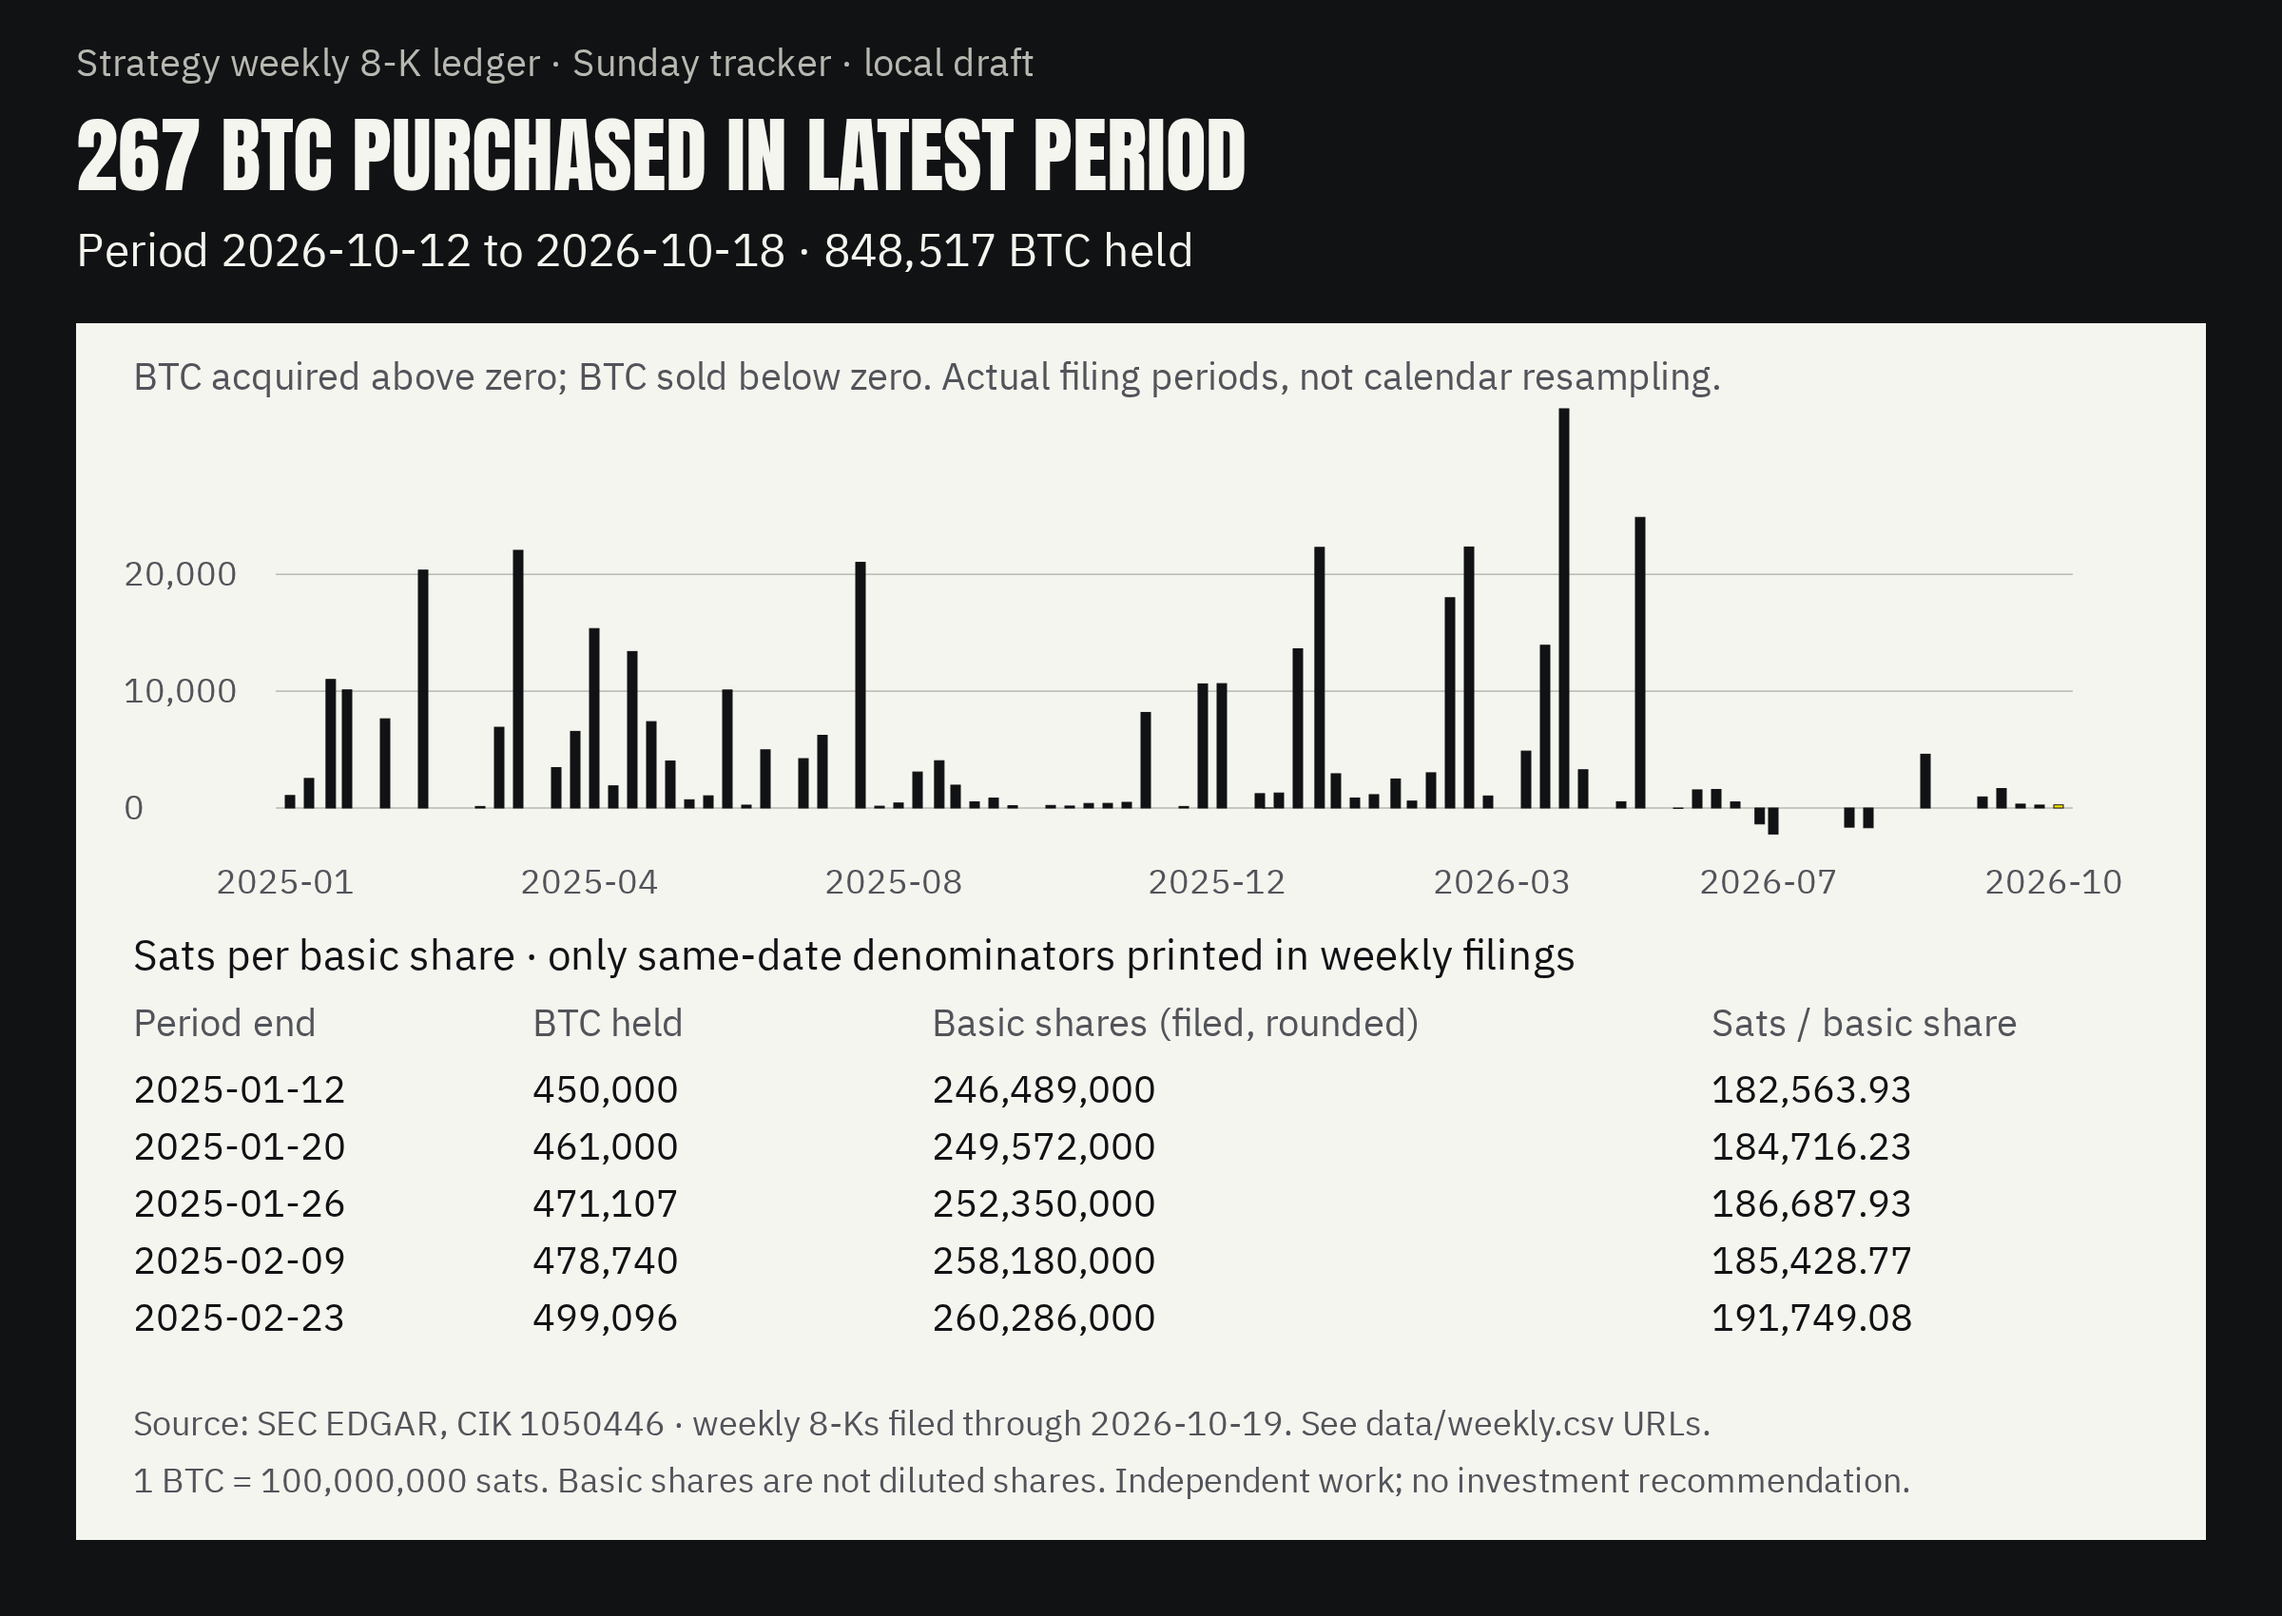
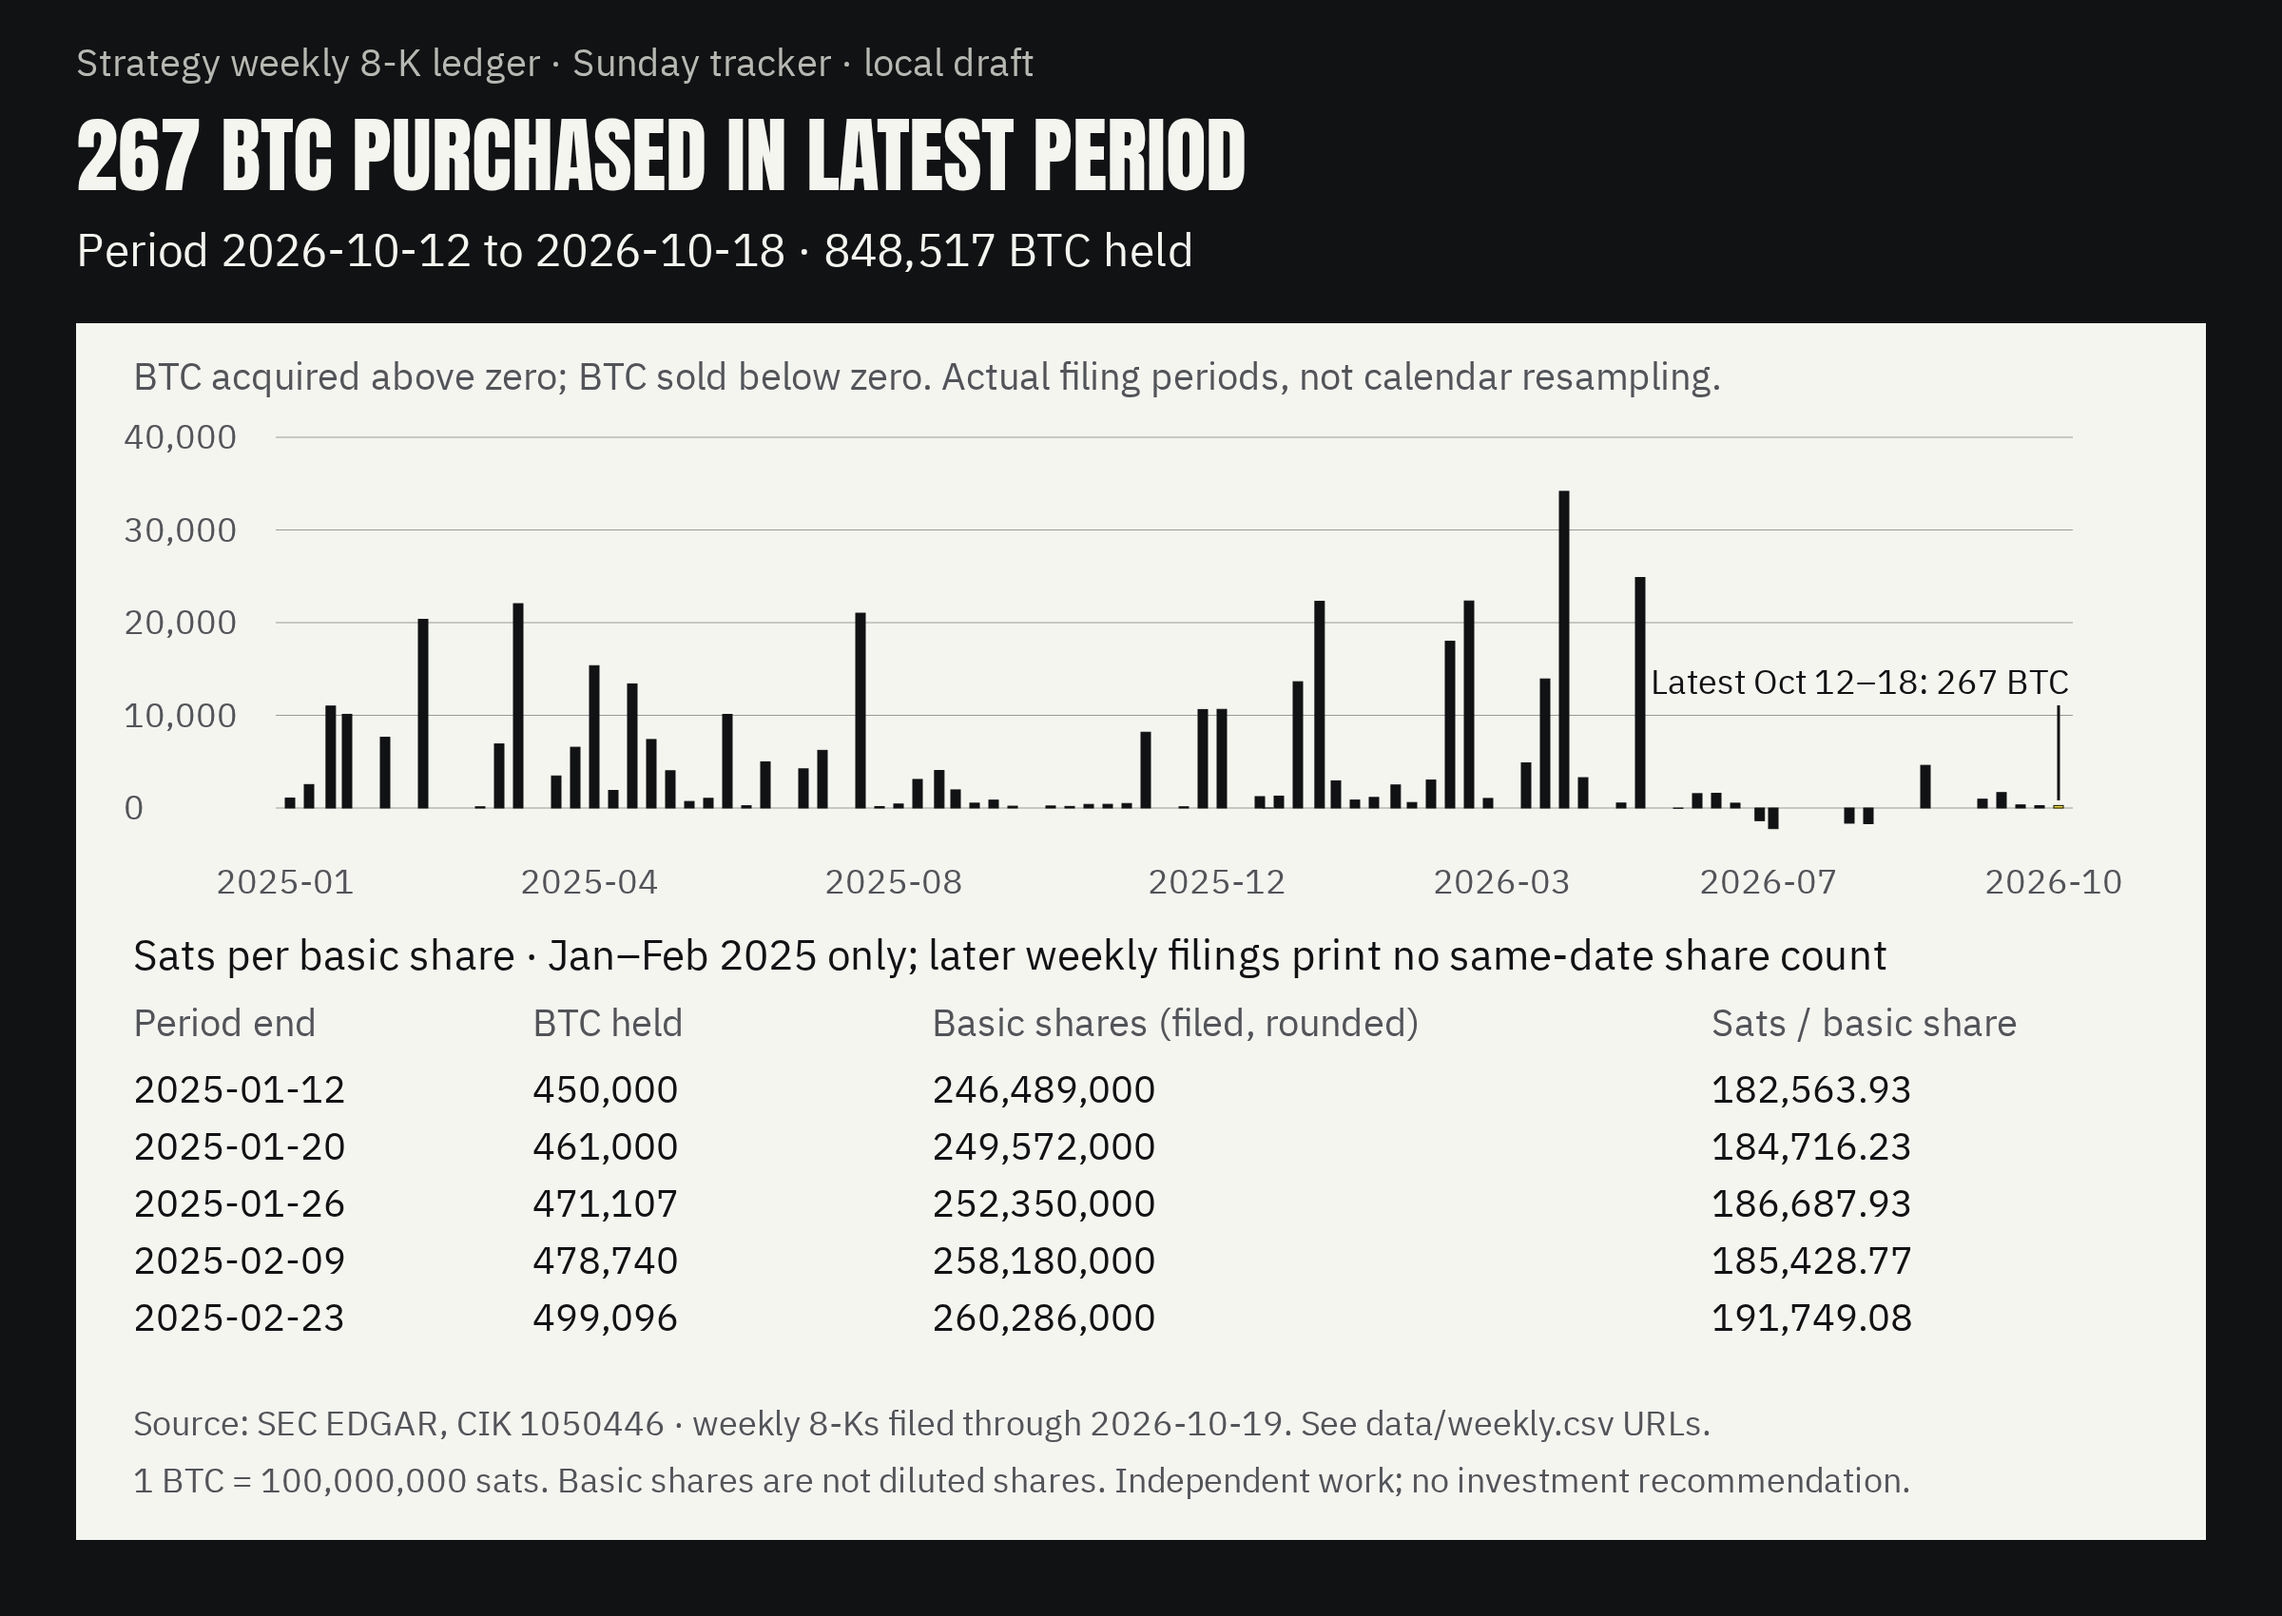
Give the tracker chart headroom and label the latest week
The top gridline now clears the largest purchase (34,164 BTC), the latest
267 BTC bar gets a direct label and leader, and the per-share table states it
covers Jan-Feb 2025 only. Re-rendered PNG@2x via the existing pipeline.

diff --git a/ledger/chart.py b/ledger/chart.py
@@ -22,6 +22,11 @@ def text(x, y, value, size=20, fill='#52545A', extra=''):
     return f'<text x="{x}" y="{y}" font-size="{size}" fill="{fill}" {extra}>{escape(str(value))}</text>'
 
 
+def span(start, end):
+    a, b = dt.date.fromisoformat(start), dt.date.fromisoformat(end)
+    return f"{a:%b} {a.day}–{'' if a.month == b.month else f'{b:%b} '}{b.day}"
+
+
 def main():
     weeks = build.read('weekly.csv')
     sats = sourced_sats(weeks)
@@ -50,9 +55,12 @@ def main():
           text(40, 140, f"Period {latest['period_start']} to {latest['period_end']} · {int(latest['btc_held']):,} BTC held", 24, '#F5F5EF'),
           '<rect x="40" y="170" width="1120" height="640" fill="#F5F5EF"/>',
           text(70, 205, 'BTC acquired above zero; BTC sold below zero. Actual filing periods, not calendar resampling.', 20)]
-    zero, scale = 425, 210 / max(float(w['btc_acquired'] or 0) for w in weeks)
+    # Headroom: the top gridline is the next 10,000 above the largest purchase, so no bar overshoots it.
+    peak = max(float(w['btc_acquired'] or 0) for w in weeks)
+    top = 10000 * (int(peak // 10000) + 1)
+    zero, scale = 425, 195 / top
     x0, x1 = 150, 1080
-    for amount in (0, 10000, 20000):
+    for amount in range(0, top + 1, 10000):
         y = zero - amount * scale
         el.extend([text(65, round(y+6, 2), f'{amount:,}', 18),
                    f'<line x1="145" x2="1090" y1="{y}" y2="{y}" stroke="#9A9B96" stroke-width="0.5"/>'])
@@ -68,9 +76,14 @@ def main():
             if height:
                 y = zero-height if sign == 1 else zero
                 el.append(f'<rect x="{x:.2f}" y="{y:.2f}" width="5" height="{height:.3f}" fill="{color}" stroke="#111214" stroke-width="0.5"/>')
+        if i == len(weeks)-1:
+            # A small latest bar can be a pixel tall; a leader and label name it directly.
+            el.extend([f'<line x1="{x+2.5:.2f}" x2="{x+2.5:.2f}" y1="{zero-54}" y2="{zero-4}" stroke="#111214" stroke-width="1.5"/>',
+                       text(round(x+8, 2), zero-60, f"Latest {span(row['period_start'], row['period_end'])}: "
+                            f"{int(D(row['btc_acquired'])):,} BTC", 18, '#111214', 'text-anchor="end"')])
         if i % 16 == 0 or i == len(weeks)-1:
             el.append(text(round(x, 2), 470, row['period_end'][:7], 18, extra='text-anchor="middle"'))
-    el.append(text(70, 510, 'Sats per basic share · only same-date denominators printed in weekly filings', 22, '#111214'))
+    el.append(text(70, 510, 'Sats per basic share · Jan–Feb 2025 only; later weekly filings print no same-date share count', 22, '#111214'))
     for x, label in [(70, 'Period end'), (280, 'BTC held'), (490, 'Basic shares (filed, rounded)'), (900, 'Sats / basic share')]:
         el.append(text(x, 545, label, 20))
     for i, r in enumerate(sats):
